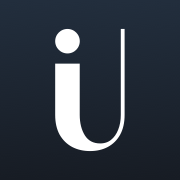
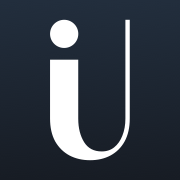
feat: логотип крупнее; на сайте без «Apple Silicon»
Знак в иконке увеличен (assets/ushi-logo.svg): иконка приложения, знак
в строке меню, логотип и значки сайта. Сборка 2.0 (3) — файлы релиза v2.0
заменены без смены версии. Подпись под кнопкой: «Бесплатно · macOS 14.6+».

Changed region(s): [[0.2778, 0.0833, 0.7222, 0.9167]]

diff --git a/landing/index.html b/landing/index.html
@@ -257,8 +257,8 @@
             </linearGradient>
           </defs>
           <rect width="928" height="928" fill="url(#ushiLogoBg)"/>
-          <path d="M516.516 739.453C538.387 739.453 556.837 733.365 572.086 721.325C588.04 708.615 600.363 691.343 608.987 669.344L609.007 669.297C618.181 646.733 622.81 621.114 622.81 592.375V149.176H642.42V592.375C642.42 631.955 634.859 665.943 619.545 694.175L619.537 694.19L619.528 694.205C604.239 721.828 582.958 743.024 555.731 757.706L555.718 757.713L555.705 757.72C529.064 771.827 498.55 778.824 464.271 778.824C429.989 778.824 399.213 771.827 372.038 757.736L372.009 757.721L371.98 757.706C344.766 743.031 323.223 721.852 307.385 694.259L307.36 694.218L307.338 694.175C292.024 665.943 284.463 631.955 284.463 592.375V328.048H411.05V592.375C411.05 634.724 420.043 669.985 437.789 698.373C455.235 725.74 481.271 739.453 516.516 739.453Z" fill="white"/>
-          <path d="M411.326 212.341C411.326 247.243 382.91 275.506 347.895 275.506C312.879 275.506 284.463 247.243 284.463 212.341C284.463 177.439 312.879 149.176 347.895 149.176C382.91 149.176 411.326 177.439 411.326 212.341Z" fill="white"/>
+          <path d="M524.439 780.729C549.552 780.729 570.735 773.729 588.244 759.885C606.562 745.27 620.712 725.41 630.613 700.114L630.636 700.06C641.169 674.116 646.484 644.657 646.484 611.612V102H669V611.612C669 657.123 660.319 696.203 642.735 728.666L642.726 728.684L642.716 728.701C625.161 760.463 600.727 784.835 569.466 801.717L569.45 801.725L569.436 801.733C538.847 817.954 503.812 826 464.452 826C425.09 826 389.754 817.954 358.552 801.752L358.519 801.734L358.486 801.717C327.239 784.843 302.504 760.491 284.318 728.763L284.29 728.715L284.265 728.666C266.681 696.203 258 657.123 258 611.612V307.676H403.345V611.612C403.345 660.307 413.67 700.851 434.046 733.493C454.078 764.962 483.971 780.729 524.439 780.729Z" fill="white"/>
+          <path d="M403.662 174.63C403.662 214.762 371.035 247.26 330.831 247.26C290.627 247.26 258 214.762 258 174.63C258 134.498 290.627 102 330.831 102C371.035 102 403.662 134.498 403.662 174.63Z" fill="white"/>
         </svg>
       </span>
       <span class="brand">Ushi</span>
@@ -310,7 +310,7 @@
             appleIconSvg +
             '<span>Скачать на Mac</span>' +
           '</a>' +
-          '<p class="caption">Бесплатно · Apple Silicon · macOS 14.6+</p>';
+          '<p class="caption">Бесплатно · macOS 14.6+</p>';
       }
     })();
   </script>
